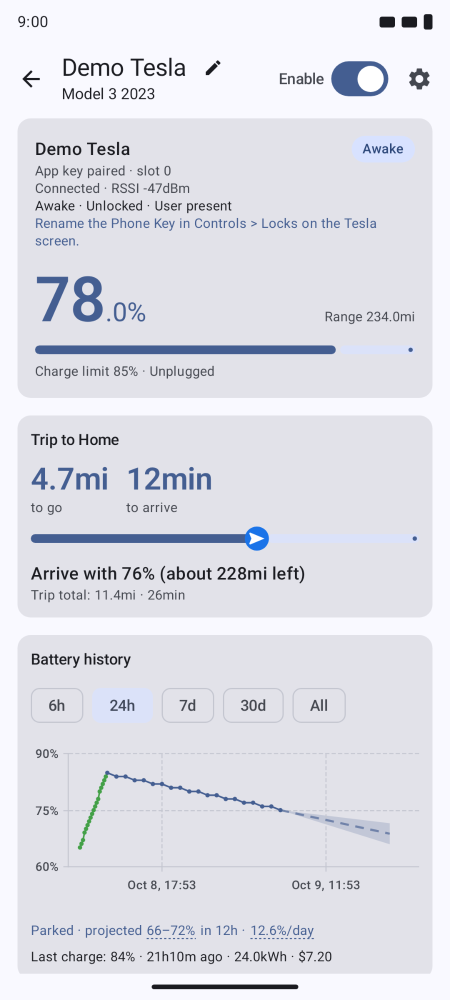
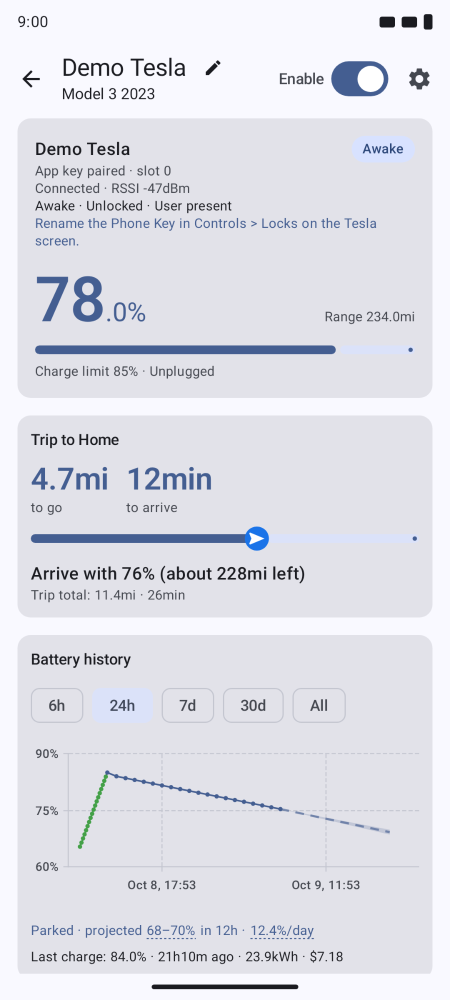
test: read the demo drives every ten seconds with a fractional, wobbling level
Claude-Session: https://claude.ai/code/session_01PLLPdEGMtwQUrgVjwf5FFz

diff --git a/app/src/test/java/com/dzid26/teslable/ui/DemoScreenFixtures.kt b/app/src/test/java/com/dzid26/teslable/ui/DemoScreenFixtures.kt
@@ -20,7 +20,9 @@ import com.tesla.generated.vcsec.UserPresence_E
 import com.tesla.generated.vcsec.VehicleLockState_E
 import com.tesla.generated.vcsec.VehicleSleepStatus_E
 import com.tesla.generated.vcsec.VehicleStatus
+import kotlin.math.PI
 import kotlin.math.roundToInt
+import kotlin.math.sin
 
 /**
  * The simulated car as the full-screen snapshots show it, so the release
@@ -46,7 +48,7 @@ internal object DemoScreenFixtures {
     private const val RATED_MILES_PER_PERCENT = 3.0f
     private const val KWH_PER_PERCENT = 0.75f
     private const val ODOMETER = 1_234_567
-    private const val DRIVE_STEP = 333
+    private const val DRIVE_STEP = 11
     private const val DEMO_RSSI_LIST = -48
     private const val DEMO_RSSI_CAR = -47
     private const val OTHER_RSSI = -78
@@ -161,72 +163,81 @@ internal object DemoScreenFixtures {
         }
 
     private data class Point(
-        val minutesAgo: Long,
-        val percent: Int,
+        val secondsAgo: Long,
+        val percent: Float,
         val state: ChargingStateKind,
-        val chargeStartPercent: Int? = null,
+        val chargeStartPercent: Float? = null,
         val driving: Boolean = false,
+        val regenerating: Boolean = false,
     )
 
-    /** Points from `minutes.first` to `.second` minutes ago, the level moving from `levels.first` to `.second`. */
+    /**
+     * Points from `minutes.first` to `.second` minutes ago, the level moving from `levels.first` to `.second`, one
+     * every [stepSeconds]. A drive is read every ten seconds, with the level wobbling around its descent so the car
+     * regenerates now and then; the level is fractional, as the fitted scale makes it.
+     */
     private fun segment(
         minutes: Pair<Long, Long>,
         levels: Pair<Int, Int>,
-        stepMin: Long,
+        stepSeconds: Long,
         state: ChargingStateKind,
         driving: Boolean = false,
     ): List<Point> {
-        val (fromAgo, toAgo) = minutes
+        val fromAgo = minutes.first * SECONDS_PER_MINUTE
+        val toAgo = minutes.second * SECONDS_PER_MINUTE
         val (fromPercent, toPercent) = levels
         val span = (fromAgo - toAgo).coerceAtLeast(1L)
-        val charge = if (state == ChargingStateKind.Charging) fromPercent else null
+        val charge = if (state == ChargingStateKind.Charging) fromPercent.toFloat() else null
         val points = mutableListOf<Point>()
         var ago = fromAgo
+        var previous = fromPercent.toFloat()
         while (ago >= toAgo) {
             val fraction = (fromAgo - ago).toDouble() / span
-            // A drive wobbles: every fourth reading gains a level back, as regen on a downhill does.
-            val regen = if (driving && points.size % REGEN_EVERY == REGEN_EVERY - 1 && ago > toAgo) 1 else 0
-            val percent = (fromPercent + (toPercent - fromPercent) * fraction).roundToInt() + regen
-            points += Point(ago, percent, state, charge, driving)
-            ago -= stepMin
+            val trend = fromPercent + (toPercent - fromPercent) * fraction
+            val wobble = if (driving) sin(fraction * 2 * PI * DRIVE_WAVES) * DRIVE_WOBBLE_PERCENT * sin(fraction * PI) else 0.0
+            val percent = (trend + wobble).toFloat()
+            points += Point(ago, percent, state, charge, driving, regenerating = driving && percent > previous)
+            previous = percent
+            ago -= stepSeconds
         }
-        if (points.last().minutesAgo != toAgo) points += Point(toAgo, toPercent, state, charge, driving)
         return points
     }
+
+    private fun minutes(count: Long) = count * SECONDS_PER_MINUTE
 
     private val timeline: List<Point> =
         buildList {
             val parked = ChargingStateKind.Disconnected
             val charge = ChargingStateKind.Charging
-            addAll(segment(2880L to 2700L, 64 to 63, 60, parked))
-            addAll(segment(2700L to 2580L, 63 to 55, 5, parked, driving = true))
-            addAll(segment(2580L to 2460L, 55 to 54, 60, parked))
-            addAll(segment(2460L to 2400L, 54 to 60, 10, charge))
-            addAll(segment(2400L to 2280L, 60 to 52, 5, parked, driving = true))
-            addAll(segment(2280L to 2160L, 52 to 51, 60, parked))
-            addAll(segment(2160L to 2040L, 51 to 63, 10, charge))
-            addAll(segment(2040L to 1920L, 63 to 54, 5, parked, driving = true))
-            addAll(segment(1920L to 1560L, 54 to 52, 60, parked))
-            addAll(segment(1560L to 1260L, 52 to 85, 10, charge))
-            add(Point(1260, 85, ChargingStateKind.Complete))
-            addAll(segment(1200L to 90L, 84 to 75, 60, parked))
-            addAll(segment(90L to 10L, 75 to 78, 10, charge))
-        }.reversed().distinctBy { it.minutesAgo }.reversed()
+            addAll(segment(2880L to 2700L, 64 to 63, minutes(60), parked))
+            addAll(segment(2700L to 2580L, 63 to 55, DRIVE_READ_SECONDS, parked, driving = true))
+            addAll(segment(2580L to 2460L, 55 to 54, minutes(60), parked))
+            addAll(segment(2460L to 2400L, 54 to 60, minutes(10), charge))
+            addAll(segment(2400L to 2280L, 60 to 52, DRIVE_READ_SECONDS, parked, driving = true))
+            addAll(segment(2280L to 2160L, 52 to 51, minutes(60), parked))
+            addAll(segment(2160L to 2040L, 51 to 63, minutes(10), charge))
+            addAll(segment(2040L to 1920L, 63 to 54, DRIVE_READ_SECONDS, parked, driving = true))
+            addAll(segment(1920L to 1560L, 54 to 52, minutes(60), parked))
+            addAll(segment(1560L to 1260L, 52 to 85, minutes(10), charge))
+            add(Point(minutes(1260), 85f, ChargingStateKind.Complete))
+            addAll(segment(1200L to 90L, 84 to 75, minutes(60), parked))
+            addAll(segment(90L to 10L, 75 to 78, minutes(10), charge))
+        }.reversed().distinctBy { it.secondsAgo }.reversed()
 
-    /** Two days of charge readings ending at [nowMillis]: three sessions plus the live top-up. */
+    /** Two days of charge readings ending at [nowMillis]: three sessions plus the live top-up, and dense readings on the drives. */
     fun history(nowMillis: Long): List<BatterySample> =
         timeline.map { point ->
             val added = point.chargeStartPercent?.let { point.percent - it }
             BatterySample(
-                timestampMillis = nowMillis - point.minutesAgo * MINUTE,
-                batteryLevel = point.percent,
+                timestampMillis = nowMillis - point.secondsAgo * SECOND,
+                batteryLevel = point.percent.roundToInt(),
                 chargingState = point.state,
                 chargeLimit = CHARGE_LIMIT,
                 vehicleId = bleName,
                 ratedRangeMiles = point.percent * RATED_MILES_PER_PERCENT,
                 chargeEnergyAdded = added?.let { it * KWH_PER_PERCENT } ?: 0f,
                 chargeMilesAddedRated = added?.let { it * RATED_MILES_PER_PERCENT } ?: 0f,
-                readAtMillis = nowMillis - point.minutesAgo * MINUTE,
+                readAtMillis = nowMillis - point.secondsAgo * SECOND,
             )
         }
 
@@ -237,16 +248,21 @@ internal object DemoScreenFixtures {
         return timeline.mapIndexed { i, point ->
             if (moved[i]) odometer += DRIVE_STEP
             DriveSample(
-                timestampMillis = nowMillis - point.minutesAgo * MINUTE,
+                timestampMillis = nowMillis - point.secondsAgo * SECOND,
                 vehicleId = bleName,
                 shiftState = if (point.driving) ShiftStateKind.D else ShiftStateKind.P,
                 speed = if (point.driving) DRIVE_SPEED else 0,
-                power = 0,
+                power = if (point.regenerating) REGEN_POWER_KW else 0,
                 odometerInHundredthsOfAMile = odometer,
             )
         }
     }
 
     private const val DRIVE_SPEED = 40
-    private const val REGEN_EVERY = 4
+    private const val DRIVE_READ_SECONDS = 10L
+    private const val SECONDS_PER_MINUTE = 60L
+    private const val SECOND = 1_000L
+    private const val DRIVE_WAVES = 7.0
+    private const val DRIVE_WOBBLE_PERCENT = 0.45
+    private const val REGEN_POWER_KW = -8
 }
